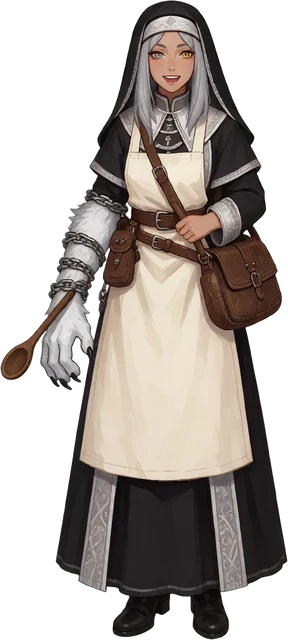
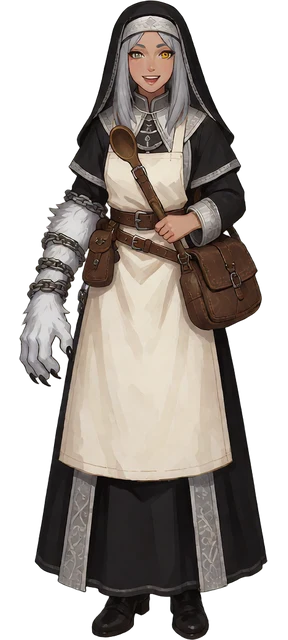
Mira's Kitchen: a calmer phone screen, and Mira holds the spoon
On a phone only the things the order lets you change carry a label, and each
gets a finger-sized tap area. Locked things stay in the picture unlabelled.
Plates show just their stamp; tap one for its seconds, cold start and tries.
Brazier notes show only while the stove fires, and Mira steps out during a
firing. The bubble is shorter and leads with the order. The smiling Mira is
repainted holding the spoon in her human hand.

Claude-Session: https://claude.ai/code/session_01JTmPYBALrMKs5GSjsKEsUv

diff --git a/game/js/kitchen-scene.js b/game/js/kitchen-scene.js
@@ -55,7 +55,7 @@
     tall: { W: 768, H: 1344, bg: 'assets/img/stage/kitchen-tall.webp', focus: [400, 810],
       rail: [280, 520, 520], tickets: [30, 520, 530, 610], knob: [250, 830, 56], timer: [470, 692, 62],
       hook: [560, 620, 30], keyHook: [560, 662, 24], pot: [170, 712, 110], keyPot: [170, 678, 26],
-      tray: [640, 745, 104], jar: [385, 690, 50], peg: [662, 578, 160],
+      tray: [655, 628, 104], jar: [385, 690, 50], peg: [640, 500, 160],
       braziers: [230, 960, 540, 1030], plates: [20, 1040, 540, 1180], book: [240, 860, 640, 960], crate: [110, 1030, 96],
       mira: [665, 1185, 185] }
   };
@@ -140,7 +140,7 @@
     parts.push(slot('outside', 'hook', L.hook, 'Hang the pantry key on the hook: open the pantry once per cook, outside the handler'));
     parts.push(slot('inside', 'pot', L.pot, 'Drop the pantry key in the pot: open the pantry on every call, inside the handler'));
     parts.push(`<${can('prep') ? 'button type="button"' : 'div'} class="kw-thing kw-key${hot === 'prep' ? ' hot' : ''}${c.prep === 'inside' ? ' in' : ''}" ${can('prep') ? 'data-drag="prep"' : ''} aria-label="The pantry key: ${esc(K.KNOBS.prep.say(c.prep))}" style="${spot('key', keyAt)}">${img('key')}</${can('prep') ? 'button' : 'div'}>`);
-    parts.push(`<span class="kw-chalk kw-keyl" style="left:${px(c.prep === 'outside' ? L.hook[0] - 70 : L.pot[0] - 70)};top:${px(c.prep === 'outside' ? L.hook[1] + 46 : L.pot[1] + 4)}">${c.prep === 'outside' ? 'once per cook' : 'every call'}</span>`);
+    parts.push(`<span class="kw-chalk kw-keyl${can('prep') ? '' : ' fixed'}" style="left:${px(c.prep === 'outside' ? L.hook[0] - 70 : L.pot[0] - 70)};top:${px(c.prep === 'outside' ? L.hook[1] + 46 : L.pot[1] + 4)}">${c.prep === 'outside' ? 'once per cook' : 'every call'}</span>`);
     // The tray, with or without its statusCode tag.
     if (api || k.includes('ret')) parts.push(tap('ret', `${img('tray')}${c.ret === 'proxy' ? `<span class="kw-tag"><img src="${IMG('tag')}" alt=""><i>statusCode 200<br>+ body</i></span>` : ''}${chalk(c.ret === 'proxy' ? 'tagged' : 'just the dish')}`, L.tray, 'tray',
       `The tray: ${K.KNOBS.ret.say(c.ret)}`, `data-tog="ret" aria-pressed="${c.ret === 'proxy'}"`));
@@ -172,7 +172,8 @@
     if (o2.wrote) parts.push(`<p class="kw-wrote" aria-hidden="true" style="left:${px(L.book[0])};top:${px(L.book[1] - 60)};max-width:${px(Math.max(420, L.book[2] - L.book[0]))}">${esc(o2.wrote)}</p>`);
     // Mira, and what she says.
     const mood = o2.mood === 'smile' ? 'mira-smile' : 'mira-neutral';
-    parts.push(`<img class="kw-mira" src="${IMG(mood)}" alt="" draggable="false" style="${spot(mood, L.mira)}">`);
+    // A phone: Mira steps out while the stove fires, so the plates and braziers have the room.
+    if (!(lay === 'tall' && r)) parts.push(`<img class="kw-mira" src="${IMG(mood)}" alt="" draggable="false" style="${spot(mood, L.mira)}">`);
     const bub = o2.say ? `<div class="kw-say" aria-live="polite"${L.bubble ? ` data-bx="${L.bubble[0]}" data-by="${L.bubble[1]}" data-bw="${L.bubble[2]}"` : ''}><div>${o2.say}</div></div>` : '';
     return `<div class="kw-stage" data-layout="${lay}">${bub}<div class="kw-view"><div class="kw-world${live ? ' live' : ''}" style="width:${L.W}px;height:${L.H}px" data-fx="${L.focus[0]}" data-fy="${L.focus[1]}">
       <img class="kw-bg" src="${L.bg}" alt="Bram's kitchen at night: the stove lit, the recipe book open on the bench" draggable="false">${parts.join('')}</div></div></div>`;
@@ -207,6 +208,15 @@
     const x = root.querySelector('.kw-world');
     if (!x) return;
     const book = x.querySelector('.kw-book');
+    // A tapped plate says what happened to it (its seconds, cold start and tries are hidden on a phone).
+    x.querySelectorAll('[data-pl]').forEach(el => el.onclick = () => {
+      const st = root.querySelector('.kw-view');
+      let tip = st && st.querySelector('.kw-tip');
+      if (!st) return;
+      if (!tip) { tip = document.createElement('p'); tip.className = 'kw-tip'; tip.setAttribute('role', 'status'); st.appendChild(tip); }
+      tip.textContent = el.getAttribute('aria-label');
+      clearTimeout(tip._t); tip.hidden = false; tip._t = setTimeout(() => { tip.hidden = true; }, 3500);
+    });
     if (book) book.onclick = () => o.book && o.book();
     if (!x.classList.contains('live')) return;
     x.querySelectorAll('button[data-set]').forEach(el => el.onclick = () => set(el.dataset.set, el.dataset.v));
@@ -434,7 +444,16 @@
     .kw-stamp { position: absolute; left: 50%; top: 4%; transform: translateX(-50%) rotate(-10deg); padding: 0 5px; border-radius: 5px; font: 900 18px/1.2 var(--f-head, serif); color: #fff; background: #2f7a3a; box-shadow: 0 2px 0 rgba(0,0,0,.4); }
     .kw-plate.warn .kw-stamp { background: #c0892a; } .kw-plate.bad .kw-stamp { background: #9e3a34; } .kw-plate.keep .kw-stamp { background: #2a4360; }
     .kw-pd { font: 700 12px var(--f-body, system-ui); color: #fff3da; text-shadow: 0 1px 2px #000, 0 0 4px #000; white-space: nowrap; }
-    [data-layout="tall"] .kw-stamp { font-size: 24px; } [data-layout="tall"] .kw-pd { font-size: 16px; }
+    [data-layout="tall"] .kw-stamp { font-size: 24px; } [data-layout="tall"] .kw-pd { display: none; }
+    /* A phone: only the things this order lets you change carry a label; the rest stay in the picture unlabelled, and
+       each live thing gets a finger-sized tap area around it. Brazier notes show only while the stove fires. */
+    [data-layout="tall"] :is(.kw-thing.fixed .kw-chalk, .kw-keyl.fixed, .kw-signs:not(button .kw-signs)) { display: none; }
+    [data-layout="tall"] .kw-thing.fixed > img { opacity: .9; }
+    [data-layout="tall"] button.kw-thing::after { content: ''; position: absolute; left: 50%; top: 50%; width: max(100%, 100px); height: max(100%, 100px); transform: translate(-50%, -50%); }
+    [data-layout="tall"] .kw-world:not(.firing) .kw-bt { display: none; }
+    [data-layout="tall"] .kw-plates .kw-plate { cursor: pointer; }
+    .kw-tip { position: absolute; left: 8px; right: 8px; bottom: 8px; z-index: 12; margin: 0; padding: 6px 10px; border-radius: 8px; background: rgba(20, 16, 14, .9); color: #ffe7a8; font: 600 14px/1.3 var(--f-body, system-ui); }
+    .kw-tip[hidden] { display: none; }
     .kw-plate.kw-wait { visibility: hidden; }
     .kw-flying .sr { display: none; }
     .kw-book { position: absolute; border: 0 !important; background: none !important; box-shadow: none !important; padding: 0; border-radius: 12px; cursor: pointer; display: flex; align-items: flex-start; justify-content: center; }
@@ -449,7 +468,7 @@
     @keyframes kwBreathe { 50% { transform: scale(1.006, 1.012); } }
     .kw-say { position: relative; z-index: 7; flex: 0 0 auto; display: flex; font-size: 15px; }
     .kw-say > div { flex: 1; min-width: 0; max-height: 100%; overflow: auto; padding: 8px 12px; background: #fbf5e3; color: #2a2018; line-height: 1.35; box-shadow: 0 6px 14px rgba(0,0,0,.5); }
-    [data-layout="tall"] > .kw-say { max-height: 34%; border-bottom: 3px solid #2a2018; }
+    [data-layout="tall"] > .kw-say { max-height: 27%; border-bottom: 3px solid #2a2018; }
     [data-layout="tall"] > .kw-say::after { content: ''; position: absolute; right: 22%; bottom: -15px; border: 12px solid transparent; border-top-color: #2a2018; border-bottom: 0; }
     [data-layout="wide"] > .kw-say { position: absolute; }
     [data-layout="wide"] > .kw-say > div { border-radius: 16px; border: 3px solid #2a2018; }

diff --git a/game/js/mode-kitchen.js b/game/js/mode-kitchen.js
@@ -113,8 +113,9 @@
     const id = K.order(s), o = K.ORDERS[id], c = s.cfg;
     const first = s.fresh && s.night === 1 && s.step === 0 && !s.fires.length;
     const left = K.firesLeft(s), last = s.fires[s.fires.length - 1];
-    const words = (first ? p('<b class="kw-who">Mira:</b> This was Bram\'s kitchen. His book still works, mostly. Every order cooks from one recipe: the knob, the timer, the key, the tray, the jar. The glowing things are yours to set. Then fire the stove and watch.') : '')
-      + `<p class="kt-claim">${icon(o.icon)} ${esc(o.name)}</p>` + p(`<b class="kw-who">${esc(o.ward)}:</b> "${esc(o.says)}"`)
+    // The order first (a phone's bubble is short and scrolls), then Mira's welcome on the first night.
+    const words = `<p class="kt-claim">${icon(o.icon)} ${esc(o.name)}</p>` + p(`<b class="kw-who">${esc(o.ward)}:</b> "${esc(o.says)}"`)
+      + (first ? p('<b class="kw-who">Mira:</b> This was Bram\'s kitchen. His book still works, mostly. Every order cooks from one recipe: the knob, the timer, the key, the tray, the jar. The glowing things are yours to set. Then fire the stove and watch.') : '')
       + `<small>${esc(o.brief)}</small><small>${esc(guestsLine(o))}</small><small><b>${esc(rule(o))}</b></small>`
       + (last ? `<small>Last firing: ${starLine(last.stars)} · bill ${last.bill} GB-s · best so far ${'★'.repeat(s.stars[id] | 0) || 'none'}</small>` : '');
     const { b, book } = room(s, id, c, { live: true, hot, say: words, mood: first ? 'smile' : 'neutral', wrote: hot ? wroteLine(id, c, hot) : '' },
